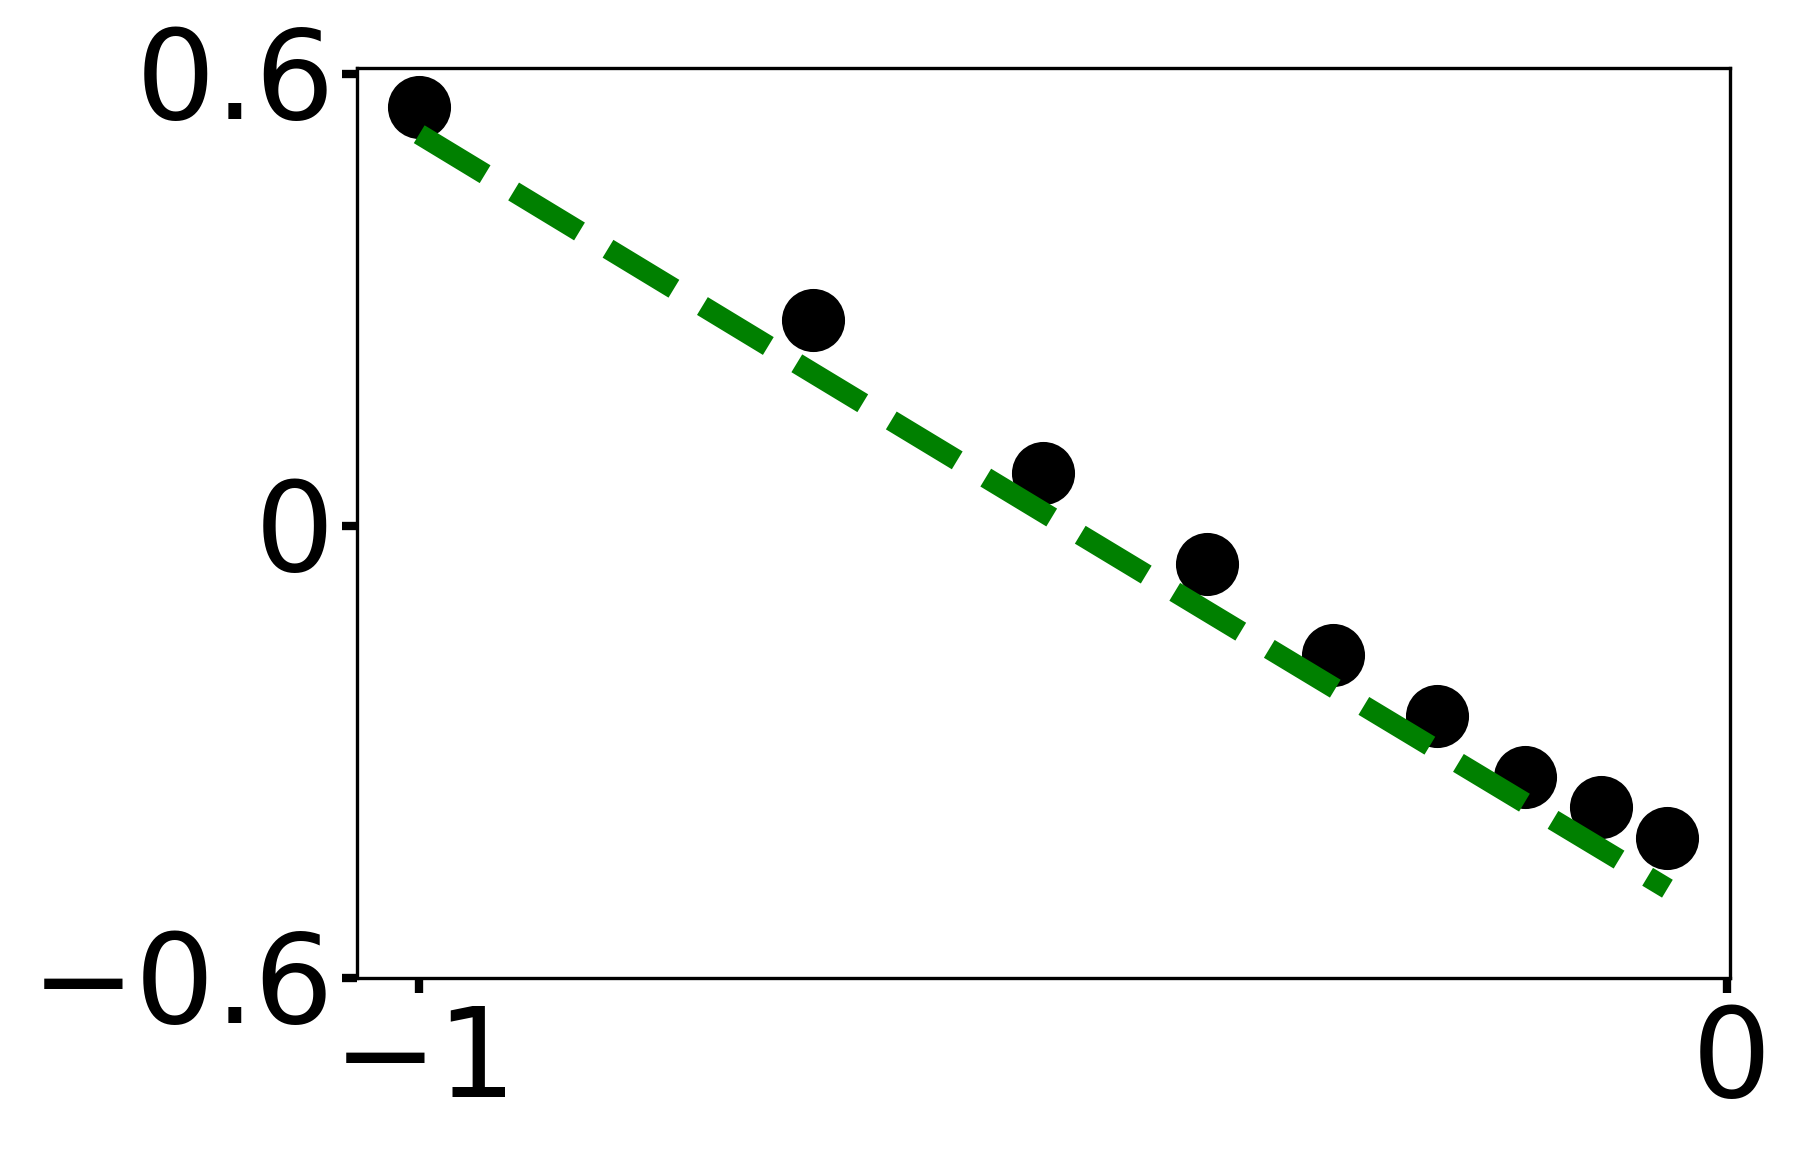
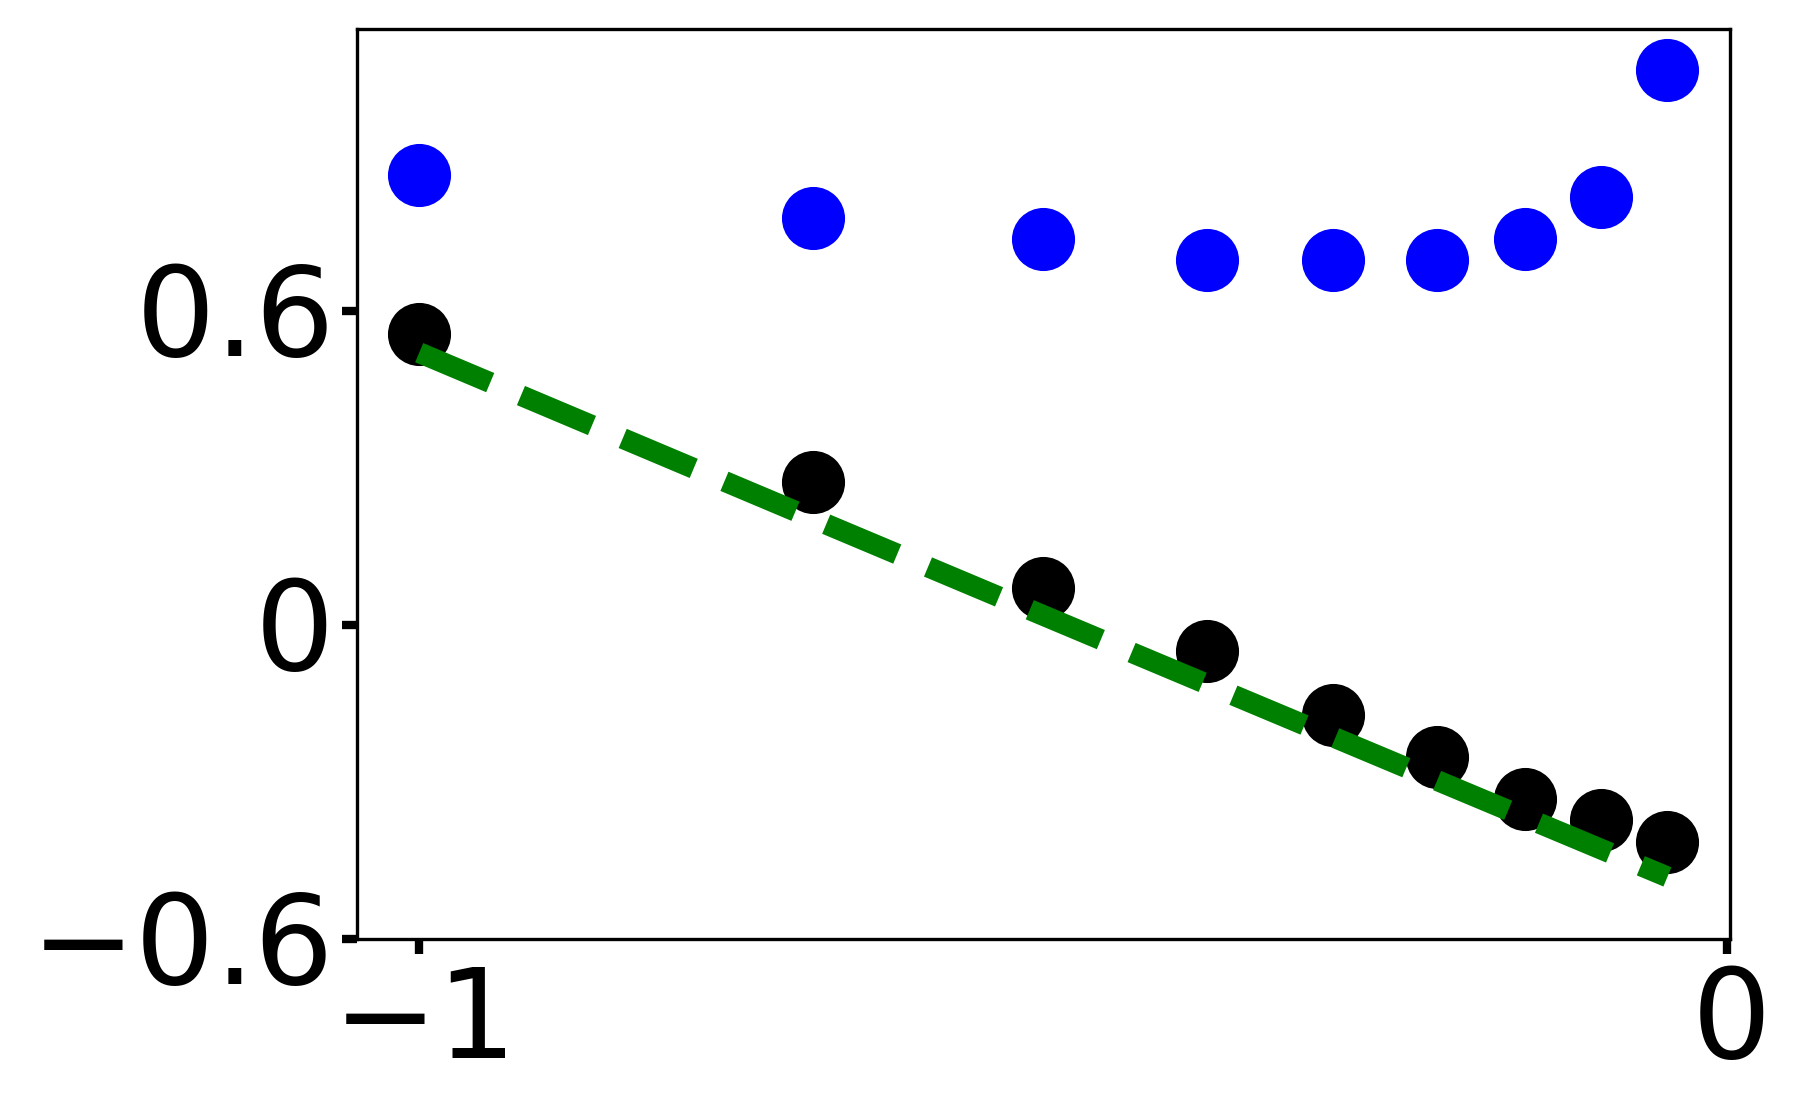
Added new figure for periodic where both bounds shown with minimum

diff --git a/Simulations/Periodic/Vary_w/MultiPlotting.py b/Simulations/Periodic/Vary_w/MultiPlotting.py
@@ -59,8 +59,10 @@ MinGradList = []
 MindRList = []
 MinCurvList = []
 
+dRListList = []
+
 for d in dirlist:
-    w,MinGrad,MindR,MinCurv,Phi,PAP = Plotting.Single_w_Plot(d)
+    w,MinGrad,MindR,MinCurv,Phi,PAP,dRList,LList = Plotting.Single_w_Plot(d)
 
     wList.append(w)
     MinGradList.append(MinGrad)
@@ -68,13 +70,57 @@ for d in dirlist:
     MinCurvList.append(MinCurv)
     print("Finished",d)
 
+    dRListList.append(dRList)
 
-wList,MinGradList,MindRList,MinCurvList = zip(*sorted(zip(wList,MinGradList,MindRList,MinCurvList)))
+
+
+
+wList,MinGradList,MindRList,MinCurvList,dRListList = zip(*sorted(zip(wList,MinGradList,MindRList,MinCurvList,dRListList)))
 
 wList = np.asarray(wList)
 MinGradList = np.asarray(MinGradList)
 MindRList = np.asarray(MindRList)
 MinCurvList = np.asarray(MinCurvList)
+
+
+
+# Set the figure size in millimeters
+fig_width_mm = 150
+fig_height_mm = 100
+fig = plt.figure(5)
+ax = fig.add_subplot(111)
+
+for i in range(len(wList)):
+    plt.plot(np.log10(LList),np.log10(dRListList[i]/LList), '-k')
+
+#Formatting
+ax.set_xticks([0,1,2])
+ax.set_xticklabels(
+    [r'$10^{0}$',r'$10^{1}$',r'$10^2$'])
+
+ax.set_yticks([-5,-4,-3,-2,-1,0])
+ax.set_yticklabels(
+    [r'$-5$',r'$-4$',r'$-3$',r'$-2$',r'$-1$',r'$0$'])
+
+
+plt.figure(5).set_size_inches(fig_width_mm/25.4,fig_height_mm/25.4,forward=True)
+
+ax.xaxis.set_tick_params(width=2)
+ax.yaxis.set_tick_params(width=2)
+
+plt.xticks(fontsize=30,fontname = "Arial")
+plt.yticks(fontsize=30,fontname = "Arial")
+
+plt.savefig(str(directory) + "/AllMinPlots.png",bbox_inches='tight',dpi=300)
+
+plt.close()
+
+
+
+
+
+
+
 
 
 MinGradTheory = np.sqrt(PAP)*np.pi/(wList * np.sqrt(np.log(8*wList*(1-Phi)/(Phi*np.pi**2))))
@@ -88,6 +134,9 @@ fig = plt.figure(1)
 ax = fig.add_subplot(111)
 plt.scatter(np.log10(wList),MinGradList,c='k',s=200)
 plt.plot(np.log10(wList),np.log10(MinGradTheory),'--g',linewidth=5)
+
+plt.scatter(np.log10(wList),MindRList,c='b',s=200)
+
 
 #Formatting
 ax.set_xticks([-1,0])
@@ -119,6 +168,9 @@ ax = fig.add_subplot(111)
 plt.scatter(np.log10(1-wList),MinCurvList,c='k',s=200)
 plt.plot(np.log10(1-wList),np.log10(MinCurvTheory),'--g',linewidth=5)
 
+plt.scatter(np.log10(1-wList),MindRList,c='b',s=200)
+
+
 #Formatting
 ax.set_xticks([-1,0])
 ax.set_xticklabels(
@@ -140,3 +192,51 @@ plt.yticks(fontsize=30,fontname = "Arial")
 
 plt.savefig(str(directory)+ "/LU.png",bbox_inches='tight',dpi=300)
 plt.close()
+
+
+
+
+
+
+fig = plt.figure(3)
+ax = fig.add_subplot(111)
+
+#Lower
+plt.scatter((wList),MinGradList,c='r',edgecolors='k',s=200)
+plt.plot((wList),np.log10(MinGradTheory),'--r',linewidth=5)
+
+#Upper
+plt.scatter((wList),MinCurvList,c='b',edgecolors='k',s=200)
+plt.plot((wList),np.log10(MinCurvTheory),'--b',linewidth=5)
+
+#Minimum
+plt.scatter((wList),MindRList,c='k',s=200)
+
+
+#Formatting
+ax.set_xticks([0,1])
+ax.set_xticklabels(
+    [r'$0$',r'$1$'])
+
+ax.set_yticks([-1,0,1,2])
+ax.set_yticklabels(
+    [r'$-1$',r'$0$',r'$1$',r'$2$'])
+
+plt.figure(3).set_size_inches(fig_width_mm/25.4,fig_height_mm/25.4,forward=True)
+
+
+ax.xaxis.set_tick_params(width=2)
+ax.yaxis.set_tick_params(width=2)
+
+
+plt.xticks(fontsize=30,fontname = "Arial")
+plt.yticks(fontsize=30,fontname = "Arial")
+
+#fig.set_figwidth(20)
+#ax.tick_params(axis='x', which='major', pad=15)
+#fig.tight_layout()
+
+
+plt.savefig(str(directory)+ "/Both.png",bbox_inches='tight',dpi=300)
+plt.close()
+

diff --git a/Simulations/Periodic/Vary_w/Plotting.py b/Simulations/Periodic/Vary_w/Plotting.py
@@ -375,7 +375,7 @@ def Single_w_Plot(directory):
 
     print("L at min R: ", 10**MindR)
 
-    return(w,MinGradient,MindR,MinCurvature,Phi,PAP)
+    return(w,MinGradient,MindR,MinCurvature,Phi,PAP,dRList,LList)
 
 #########################################################################
 
